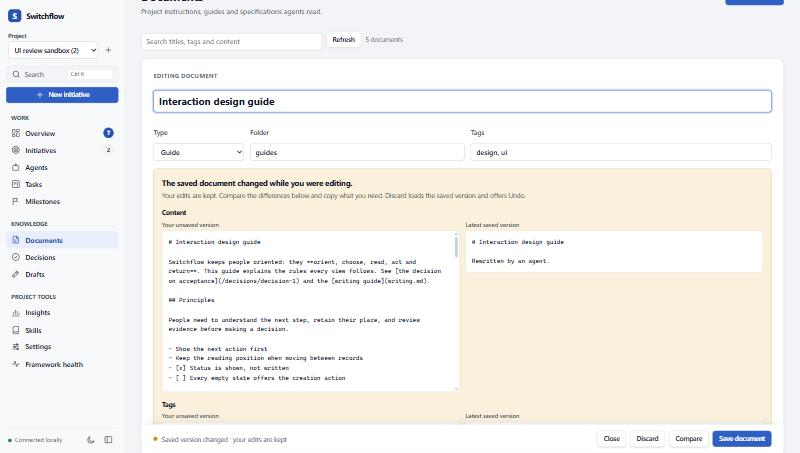
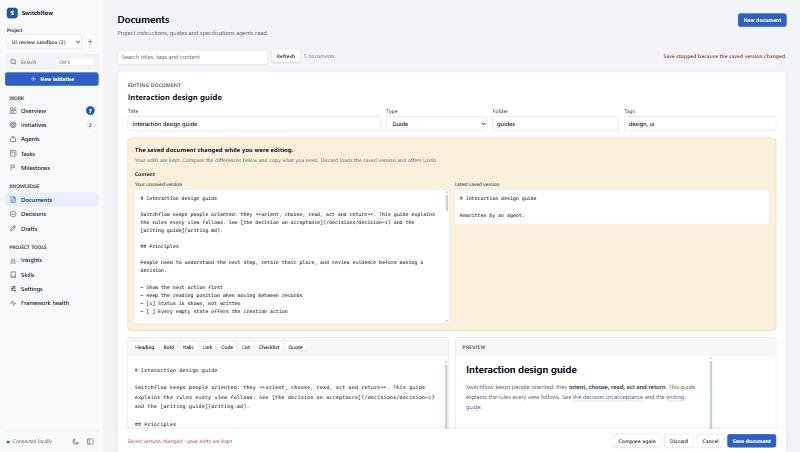
Use the shared editor bar and reading measure in Documents and Decisions
Opening Edit and leaving without changes no longer stores or reports a
draft; the bar says "No changes yet" until something differs from the
saved record. The editor uses .editor-bar (state left; Discard, Cancel,
Save right; Compare again only during a conflict) and its heading shows
the title. Prose uses --measure everywhere and the reader centres it.
With nothing selected the index is the only list.

diff --git a/template/.switchflow/scripts/control/public/knowledge.js b/template/.switchflow/scripts/control/public/knowledge.js
@@ -11,6 +11,7 @@ import {
   decisionTone,
   statusLabel,
   tocEntries,
+  draftChanged,
 } from './knowledge-model.js';
 
 // Markdown inserted around the selection by the editor toolbar and its shortcuts.
@@ -55,6 +56,7 @@ export function mountKnowledge(
     current = null,
     draft = null,
     baseline = null,
+    original = null,
     destroyed = false,
     generation = 0,
     listGeneration = 0,
@@ -112,13 +114,23 @@ export function mountKnowledge(
     }
   }
   function persist() {
-    stored = draft ? { draft, baseline } : null;
+    // An editor opened and left untouched is not a draft worth recovering.
+    stored = draft && changed() ? { draft, baseline } : null;
     try {
       if (stored) sessionStorage.setItem(key, JSON.stringify(stored));
       else sessionStorage.removeItem(key);
     } catch {
       report('Draft remains open, but this browser could not store it for recovery.', true);
     }
+  }
+  // The editable fields a draft started from, when they are still known.
+  function startingPoint() {
+    if (!draft) return null;
+    if (!draft.id) return draftFrom(null, kind);
+    return current?.id === draft.id && recordFingerprint(current) === baseline ? draftFrom(current, kind) : null;
+  }
+  function changed() {
+    return draftChanged(draft, original);
   }
   function resumeNotice() {
     const name = stored?.draft?.title?.trim();
@@ -293,6 +305,8 @@ export function mountKnowledge(
   }
   function reader() {
     frame.setAttribute('data-mode', 'read');
+    // With nothing selected the index is the list, so the navigator steps aside.
+    frame.setAttribute('data-selected', String(!!current));
     if (!current) {
       spy?.disconnect();
       spy = null;
@@ -422,13 +436,15 @@ export function mountKnowledge(
     spy = null;
     toc.innerHTML = '';
     frame.setAttribute('data-mode', 'edit');
+    original = startingPoint();
     resumeNotice();
     const fields =
       kind === 'documents'
-        ? `<div class="kn-editor-fields"><label>Type<select name="type">${DOCUMENT_TYPES.map(t => `<option value="${t}"${draft.type === t ? ' selected' : ''}>${statusLabel(t)}</option>`).join('')}</select></label><label>Folder<input name="folder" placeholder="e.g. guides" value="${esc(draft.folder)}"></label><label>Tags<input name="tags" placeholder="Comma separated" value="${esc(draft.tags)}"></label></div>`
-        : '<p class="kn-editor-hint">Keep the Context, Decision and Consequences sections. Alternatives is optional. Status and date are kept.</p>';
-    content.innerHTML = `<form class="panel knowledge-editor kn-editor" data-pane="write" aria-label="${draft.id ? 'Edit' : 'New'} ${noun}"><header class="kn-editor-head"><p class="kn-editor-kicker">${draft.id ? `Editing ${noun}` : `New ${noun}`}</p><input name="title" class="kn-title-input" required maxlength="300" placeholder="Title" aria-label="Title" value="${esc(draft.title)}">${fields}</header><div class="knowledge-conflict"></div><div class="kn-split"><section class="kn-pane kn-pane-source" aria-label="Markdown"><div class="kn-pane-bar"><div class="knowledge-format" role="group" aria-label="Markdown formatting">${FORMATS.map(([action, title, , shortcut]) => `<button type="button" class="button quiet button-small" data-format="${action}"${shortcut ? ` title="${title} (Ctrl+${shortcut.toUpperCase()})" aria-keyshortcuts="Control+${shortcut.toUpperCase()}"` : ''}>${title}</button>`).join('')}</div><div class="segmented kn-pane-switch" role="group" aria-label="Editor view"><button type="button" data-pane-switch="write" aria-pressed="true">Write</button><button type="button" data-pane-switch="preview" aria-pressed="false">Preview</button></div></div><textarea name="content" rows="18" spellcheck="true" aria-label="Markdown">${esc(draft.content)}</textarea></section><section class="kn-pane kn-pane-preview" aria-label="Preview"><div class="kn-pane-bar"><span class="kn-pane-label">Preview</span><div class="segmented kn-pane-switch" role="group" aria-label="Editor view"><button type="button" data-pane-switch="write" aria-pressed="false">Write</button><button type="button" data-pane-switch="preview" aria-pressed="true">Preview</button></div></div><article class="knowledge-preview docs-prose"></article></section></div><div class="knowledge-savebar kn-savebar"><span class="knowledge-save-state">Unsaved edits · kept in this tab</span><button type="button" class="button quiet" data-action="cancel" title="Close the editor. Your edits stay in this tab.">Close</button><button type="button" class="button quiet" data-action="discard">Discard</button><button type="button" class="button quiet" data-action="compare"${draft.id ? '' : ' disabled'} title="Check whether the saved ${noun} changed">Compare</button><button type="submit" class="button primary" data-action="save">Save ${noun}</button></div></form>`;
+        ? `<div class="kn-editor-fields"><label class="kn-field-title">Title<input name="title" required maxlength="300" value="${esc(draft.title)}"></label><label>Type<select name="type">${DOCUMENT_TYPES.map(t => `<option value="${t}"${draft.type === t ? ' selected' : ''}>${statusLabel(t)}</option>`).join('')}</select></label><label>Folder<input name="folder" placeholder="e.g. guides" value="${esc(draft.folder)}"></label><label>Tags<input name="tags" placeholder="Comma separated" value="${esc(draft.tags)}"></label></div>`
+        : `<div class="kn-editor-fields"><label class="kn-field-title">Title<input name="title" required maxlength="300" value="${esc(draft.title)}"></label></div><p class="kn-editor-hint">Keep the Context, Decision and Consequences sections. Alternatives is optional. Status and date are kept.</p>`;
+    content.innerHTML = `<form class="panel knowledge-editor kn-editor" data-pane="write" aria-label="${draft.id ? 'Edit' : 'New'} ${noun}"><header class="kn-editor-head"><p class="kn-editor-kicker">${draft.id ? `Editing ${noun}` : `New ${noun}`}</p><h2 class="kn-editor-title">${esc(draft.title.trim() || `Untitled ${noun}`)}</h2>${fields}</header><div class="knowledge-conflict"></div><div class="kn-split"><section class="kn-pane kn-pane-source" aria-label="Markdown"><div class="kn-pane-bar"><div class="knowledge-format" role="group" aria-label="Markdown formatting">${FORMATS.map(([action, title, , shortcut]) => `<button type="button" class="button quiet button-small" data-format="${action}"${shortcut ? ` title="${title} (Ctrl+${shortcut.toUpperCase()})" aria-keyshortcuts="Control+${shortcut.toUpperCase()}"` : ''}>${title}</button>`).join('')}</div><div class="segmented kn-pane-switch" role="group" aria-label="Editor view"><button type="button" data-pane-switch="write" aria-pressed="true">Write</button><button type="button" data-pane-switch="preview" aria-pressed="false">Preview</button></div></div><textarea name="content" rows="18" spellcheck="true" aria-label="Markdown">${esc(draft.content)}</textarea></section><section class="kn-pane kn-pane-preview" aria-label="Preview"><div class="kn-pane-bar"><span class="kn-pane-label">Preview</span><div class="segmented kn-pane-switch" role="group" aria-label="Editor view"><button type="button" data-pane-switch="write" aria-pressed="false">Write</button><button type="button" data-pane-switch="preview" aria-pressed="true">Preview</button></div></div><article class="knowledge-preview docs-prose"></article></section></div><div class="editor-bar knowledge-savebar"><span class="editor-state knowledge-save-state" role="status"></span><div class="editor-actions"><button type="button" class="button quiet" data-action="compare" hidden title="Check the saved ${noun} again">Compare again</button><button type="button" class="button quiet" data-action="discard">Discard</button><button type="button" class="button quiet" data-action="cancel" title="Close the editor. Unsaved changes stay in this tab.">Cancel</button><button type="submit" class="button primary" data-action="save">Save ${noun}</button></div></div></form>`;
     preview();
+    editorState();
     controls();
     find('[name=title]').focus();
   }
@@ -436,9 +452,19 @@ export function mountKnowledge(
     for (const field of content.querySelectorAll('[name]')) draft[field.name] = field.value;
     persist();
   }
-  function saveState(text) {
+  function saveState(text, state = 'dirty') {
     const node = find('.knowledge-save-state');
-    if (node) node.textContent = text;
+    if (!node) return;
+    node.textContent = text;
+    node.setAttribute('data-state', state);
+  }
+  // Reflect whether there is anything to save, and keep the heading on the current title.
+  function editorState() {
+    if (!draft) return;
+    const heading = find('.kn-editor-title');
+    if (heading) heading.textContent = draft.title.trim() || `Untitled ${noun}`;
+    if (changed()) saveState('Unsaved changes · kept in this tab');
+    else saveState('No changes yet', '');
   }
   async function compare() {
     if (!draft?.id) return true;
@@ -446,7 +472,8 @@ export function mountKnowledge(
     const latest = await api(`${endpoint}/${encodeURIComponent(draft.id)}`);
     if (destroyed || draft !== comparingDraft) return false;
     if (recordFingerprint(latest) === baseline) return true;
-    saveState('Saved version changed · your edits are kept');
+    saveState('Saved version changed · your edits are kept', 'error');
+    find('[data-action="compare"]')?.removeAttribute('hidden');
     find('.knowledge-conflict').innerHTML =
       `<div class="kn-conflict" role="alert"><div class="kn-conflict-head"><strong>The saved ${noun} changed while you were editing.</strong><p>Your edits are kept. Compare the differences below and copy what you need. Discard loads the saved version and offers Undo.</p></div>${
         knowledgeFieldComparison(draft, latest, kind)
@@ -500,13 +527,12 @@ export function mountKnowledge(
       report(`${Noun} saved.`);
       onChange();
     } catch (error) {
-      saveState('Not saved · your edits are kept');
+      saveState('Not saved · your edits are kept', 'error');
       report(`${error.message} Your draft is retained.`, true);
     } finally {
       busy = false;
       if (!destroyed) {
         for (const f of content.querySelectorAll('input,textarea,select,button')) f.disabled = false;
-        if (draft && !draft.id) find('[data-action="compare"]')?.setAttribute('disabled', '');
         controls();
       }
     }
@@ -602,6 +628,7 @@ export function mountKnowledge(
         }
         draft = draftFrom(target.dataset.action === 'edit' ? current : null, kind);
         baseline = target.dataset.action === 'edit' ? recordFingerprint(current) : null;
+        original = startingPoint();
         persist();
         editor();
         break;
@@ -610,24 +637,29 @@ export function mountKnowledge(
         baseline = stored?.baseline;
         if (draft) editor();
         break;
-      case 'cancel':
+      case 'cancel': {
         collect();
+        const kept = changed();
         draft = null;
+        original = null;
         reader();
         resumeNotice();
-        report('Unsaved edits kept in this browser tab. Resume them above.');
+        report(kept ? 'Unsaved changes kept in this tab. Resume them above.' : '');
         break;
+      }
       case 'discard': {
         collect();
-        discarded = { draft: { ...draft }, baseline };
+        const lost = changed();
+        if (lost) discarded = { draft: { ...draft }, baseline };
         const id = draft?.id;
         draft = null;
         baseline = null;
         persist();
         resumeNotice();
+        original = null;
         if (id) await open(id);
         else reader();
-        report('Edits discarded. Undo discard is available above.');
+        report(lost ? 'Edits discarded. Undo discard is available above.' : '');
         break;
       }
       case 'discard-stored':
@@ -668,6 +700,7 @@ export function mountKnowledge(
     } else if (draft && event.target.name) {
       collect();
       preview();
+      editorState();
     }
   };
   const keydown = event => {

diff --git a/template/.switchflow/scripts/control/public/knowledge.css b/template/.switchflow/scripts/control/public/knowledge.css
@@ -3,7 +3,6 @@
 .knowledge-reader {
   --kn-nav: 256px;
   --kn-toc: 216px;
-  --kn-measure: 740px;
   --kn-sticky-top: var(--space-5);
   color: var(--text-1);
 }
@@ -383,11 +382,13 @@
 }
 
 /* Reader ----------------------------------------------------------------- */
+/* The header and the prose share one font size, so --measure (in ch) gives both the same width. */
 .kn-doc {
   padding: var(--space-6) var(--space-7) var(--space-7);
+  font-size: var(--text-lg);
 }
 .kn-doc > * {
-  max-width: var(--kn-measure);
+  max-width: var(--measure);
   margin-inline: auto;
 }
 .kn-doc-header {
@@ -476,14 +477,15 @@
   letter-spacing: 0.04em;
   text-transform: uppercase;
 }
-.knowledge-reader .kn-title-input {
-  min-height: 44px;
+.kn-editor-title {
+  margin: calc(-1 * var(--space-2)) 0 0;
   font-size: var(--text-xl);
   font-weight: 700;
+  overflow-wrap: anywhere;
 }
 .kn-editor-fields {
   display: grid;
-  grid-template-columns: minmax(140px, 180px) minmax(0, 1fr) minmax(0, 1.4fr);
+  grid-template-columns: minmax(0, 2fr) minmax(130px, 0.8fr) minmax(0, 1fr) minmax(0, 1.2fr);
   gap: var(--space-3);
 }
 .kn-editor-fields label {
@@ -566,35 +568,11 @@
 .kn-preview-empty {
   color: var(--text-3);
 }
-.kn-savebar {
-  position: sticky;
-  bottom: 0;
-  z-index: 3;
-  display: flex;
-  flex-wrap: wrap;
-  align-items: center;
-  gap: var(--space-2);
+/* Shared .editor-bar, bled to the panel edges. */
+.kn-editor .editor-bar {
   margin: 0 calc(-1 * var(--space-5));
-  padding: var(--space-3) var(--space-5);
-  background: var(--surface);
-  border-top: 1px solid var(--border);
+  padding-inline: var(--space-5);
   border-radius: 0 0 var(--radius-lg) var(--radius-lg);
-  box-shadow: 0 -8px 16px -14px color-mix(in srgb, var(--text-1) 40%, transparent);
-}
-.knowledge-save-state {
-  flex: 1 1 200px;
-  display: flex;
-  align-items: center;
-  gap: var(--space-2);
-  color: var(--text-2);
-  font-size: var(--text-sm);
-}
-.knowledge-save-state::before {
-  content: '';
-  width: 8px;
-  height: 8px;
-  border-radius: 50%;
-  background: var(--status-progress);
 }
 
 /* Conflict comparison ---------------------------------------------------- */
@@ -695,6 +673,7 @@
   .kn-editor-fields {
     grid-template-columns: minmax(0, 1fr) minmax(0, 1fr);
   }
+  .kn-editor-fields .kn-field-title,
   .kn-editor-fields label:last-child {
     grid-column: 1 / -1;
   }
@@ -708,30 +687,16 @@
   .knowledge-reader .kn-pane textarea {
     min-height: 50vh;
   }
-  .kn-savebar {
+  .kn-editor .editor-bar {
+    flex-wrap: wrap;
     margin: 0 calc(-1 * var(--space-4));
-    padding: var(--space-3) var(--space-4);
+    padding-inline: var(--space-4);
   }
-  /* Two rows: state and Save, then the secondary actions. */
-  .knowledge-save-state {
-    order: -2;
+  .kn-editor .editor-actions {
+    flex: 1 1 100%;
+  }
+  .kn-editor .editor-actions .button {
     flex: 1 1 0;
-    min-width: 0;
-    font-size: var(--text-xs);
-  }
-  .kn-savebar [data-action='save'] {
-    order: -1;
-  }
-  .kn-savebar::after {
-    content: '';
-    flex-basis: 100%;
-  }
-  .kn-savebar .button.quiet {
-    order: 1;
-    flex: 1 1 0;
-  }
-  .kn-savebar {
-    row-gap: var(--space-1);
   }
   .knowledge-field-comparison {
     grid-template-columns: minmax(0, 1fr);
@@ -748,4 +713,15 @@
 }
 .kn-layout[data-empty='true'] :is(.kn-browse, .kn-contents) {
   display: none;
+}
+
+/* Nothing selected: the index is the list, so the navigator and contents step aside. */
+.kn-layout[data-mode='read'][data-selected='false'] {
+  display: block;
+}
+.kn-layout[data-mode='read'][data-selected='false'] :is(.kn-browse, .kn-contents) {
+  display: none;
+}
+.kn-editor-fields:has(> :only-child) {
+  grid-template-columns: minmax(0, 1fr);
 }

diff --git a/template/.switchflow/scripts/control/public/knowledge-model.js b/template/.switchflow/scripts/control/public/knowledge-model.js
@@ -57,6 +57,15 @@ export function draftFrom(record, kind) {
     folder: record ? folderOf(record) : '',
   };
 }
+// True when the draft differs from the editable fields it started from. Without a known
+// starting point (for example a recovered draft whose record moved on) it counts as changed.
+export function draftChanged(draft, original) {
+  if (!draft) return false;
+  if (!original) return true;
+  return ['title', 'content', 'type', 'tags', 'folder'].some(
+    field => String(draft[field] ?? '') !== String(original[field] ?? ''),
+  );
+}
 export function knowledgePayload(draft, kind) {
   if (!draft.title.trim()) throw new Error('A title is required.');
   if (kind === 'decisions') {

diff --git a/template/.switchflow/scripts/control/public/documents.css b/template/.switchflow/scripts/control/public/documents.css
@@ -161,8 +161,9 @@
 
 /* Prose: shared by documents, decisions, tasks, milestones, skills and agent messages.
    Sizes are relative so each host sets its own base size. */
+/* One reading measure app-wide; hosts centre or align the column. */
 .docs-prose {
-  max-width: 100%;
+  max-width: var(--measure);
   color: var(--text-1);
   line-height: 1.7;
   overflow-wrap: anywhere;
